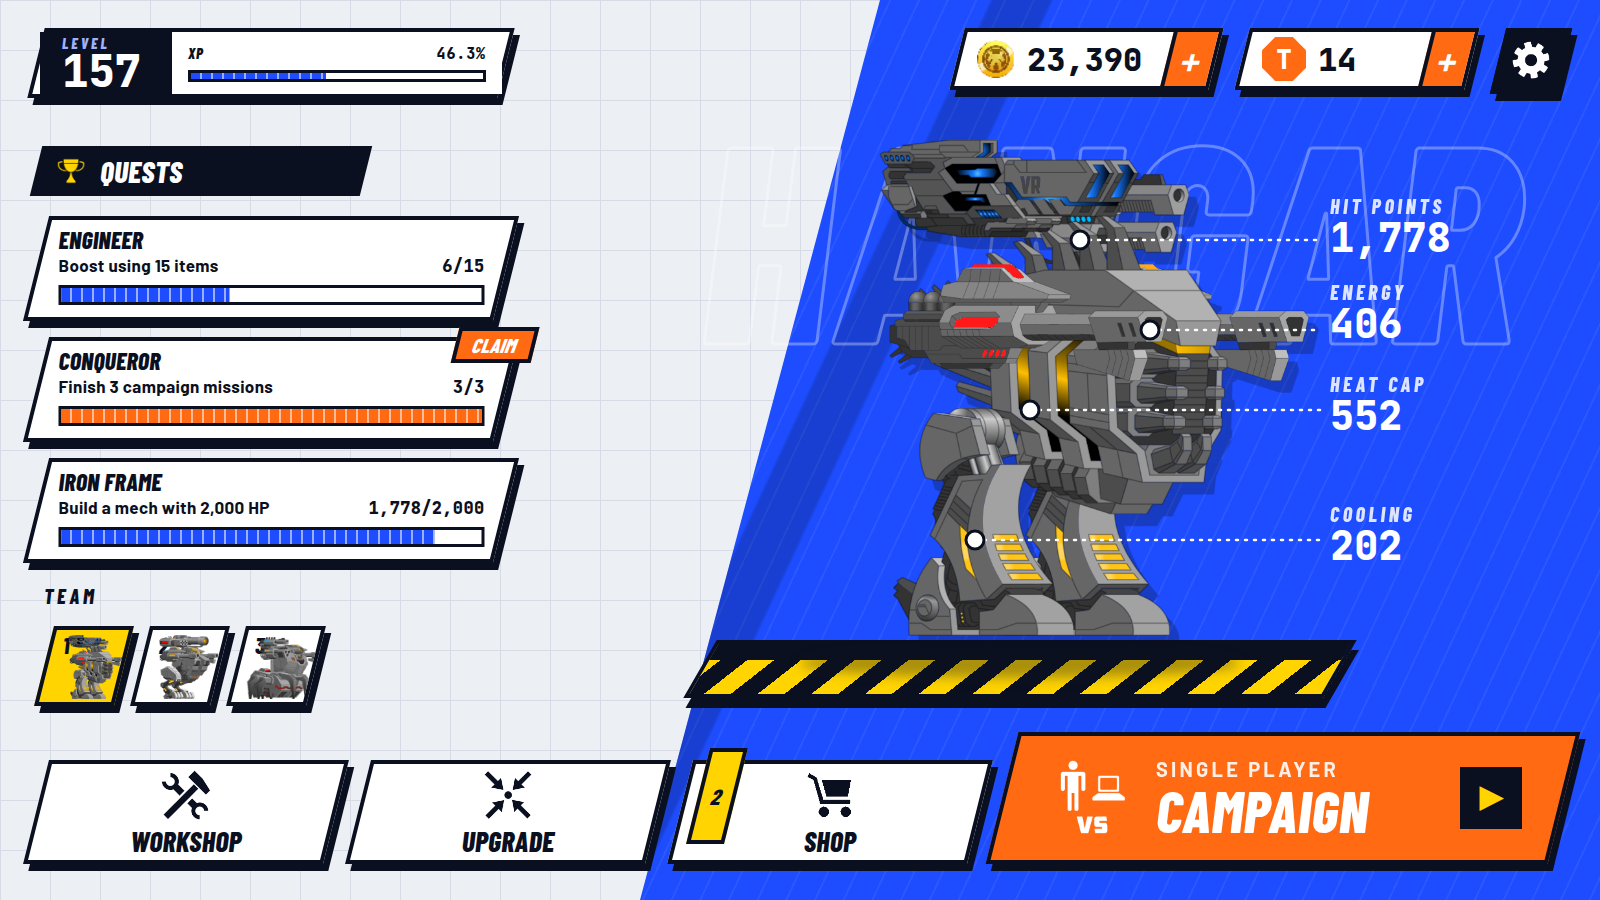
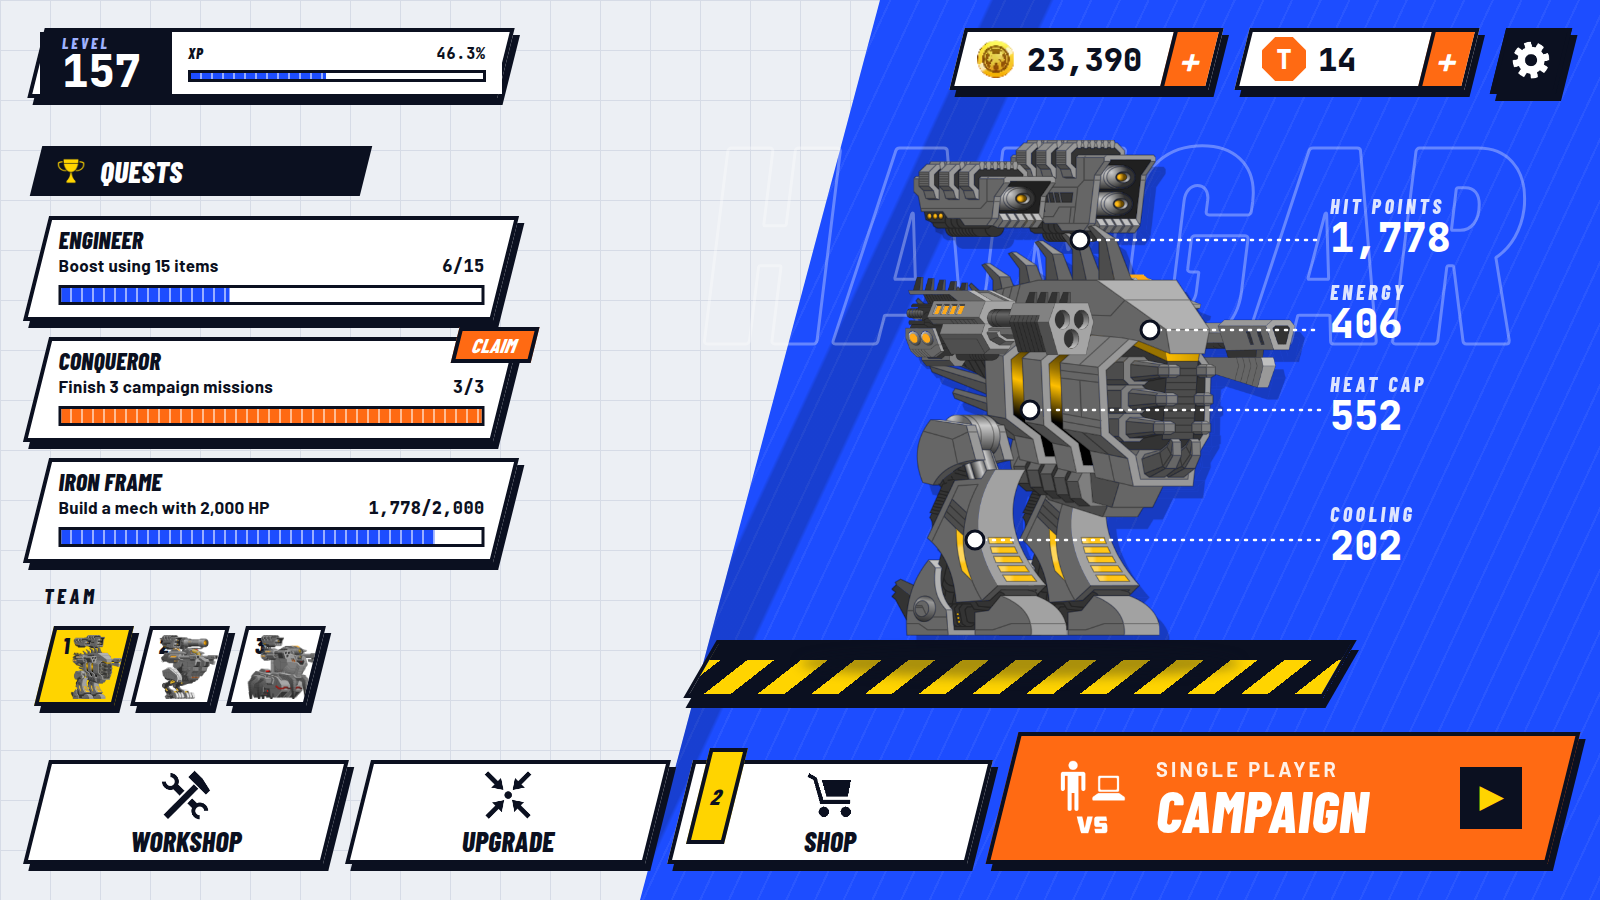
Fix mech assembly choice: use the leg73 legs and boxy top weapons
Overlaid the assembled torso and legs on the game's own workshop
screenshot: the anchor math matches (torso silhouette, hip height and leg
position line up). The earlier mismatch was the sprite choice (narrow
leg76 legs and long thin top guns), not the placement.

Claude-Session: https://claude.ai/code/session_016EMeU7WbdybdkHaQ4QiAx5

Changed region(s): [[0.5312, 0.1556, 0.8438, 0.7156], [0.0312, 0.6844, 0.1875, 0.7778]]

diff --git a/ui/mocks/assets/mech.js b/ui/mocks/assets/mech.js
@@ -1,5 +1,5 @@
 // Generated by ui/mocks/build_mechs.py from the game's own sprites and anchors.
-window.MECHS={"m1": {"w": 740, "h": 766, "parts": [{"src": "assets/mechs/sideRifle1E.png", "x": 310, "y": 192, "z": 1, "slot": "side2"}, {"src": "assets/mechs/cannon1A_elec.png", "x": 272, "y": 44, "z": 2, "slot": "top2"}, {"src": "assets/mechs/leg73D_phys.png", "x": 246, "y": 414, "z": 3, "slot": "leg2"}, {"src": "assets/mechs/torso52_phys.png", "x": 0, "y": 18, "z": 4, "slot": "torso"}, {"src": "assets/mechs/topBlaster3E.png", "x": 77, "y": 0, "z": 5, "slot": "top1"}, {"src": "assets/mechs/leg73D_phys.png", "x": 98, "y": 414, "z": 6, "slot": "leg1"}, {"src": "assets/mechs/sideRifle2E.png", "x": 92, "y": 192, "z": 7, "slot": "side1"}]}, "m2": {"w": 639, "h": 689, "parts": [{"src": "assets/mechs/sideRifle2E.png", "x": 209, "y": 127, "z": 1, "slot": "side2"}, {"src": "assets/mechs/topBeam2E_phys.png", "x": 148, "y": 2, "z": 2, "slot": "top2"}, {"src": "assets/mechs/leg67D_phys.png", "x": 133, "y": 337, "z": 3, "slot": "leg2"}, {"src": "assets/mechs/torso46_phys.png", "x": 12, "y": 0, "z": 4, "slot": "torso"}, {"src": "assets/mechs/topMachineGun1B_heat.png", "x": 0, "y": 13, "z": 5, "slot": "top1"}, {"src": "assets/mechs/leg67D_phys.png", "x": 13, "y": 337, "z": 6, "slot": "leg1"}, {"src": "assets/mechs/sideRifle1E.png", "x": 5, "y": 127, "z": 7, "slot": "side1"}]}, "m3": {"w": 735, "h": 617, "parts": [{"src": "assets/mechs/sideRifle1E.png", "x": 305, "y": 93, "z": 1, "slot": "side2"}, {"src": "assets/mechs/leg77D_heat.png", "x": 120, "y": 319, "z": 2, "slot": "leg2"}, {"src": "assets/mechs/torso47_phys.png", "x": 107, "y": 0, "z": 3, "slot": "torso"}, {"src": "assets/mechs/cannon1A_elec.png", "x": 122, "y": 21, "z": 4, "slot": "top1"}, {"src": "assets/mechs/leg77D_heat.png", "x": 0, "y": 319, "z": 5, "slot": "leg1"}, {"src": "assets/mechs/cannon3C.png", "x": 129, "y": 97, "z": 6, "slot": "side1"}]}};
+window.MECHS={"m1": {"w": 740, "h": 789, "parts": [{"src": "assets/mechs/sideRifle1E.png", "x": 310, "y": 214, "z": 1, "slot": "side2"}, {"src": "assets/mechs/topLaser2C_phys.png", "x": 264, "y": 0, "z": 2, "slot": "top2"}, {"src": "assets/mechs/leg73D_phys.png", "x": 246, "y": 437, "z": 3, "slot": "leg2"}, {"src": "assets/mechs/torso52_phys.png", "x": 0, "y": 40, "z": 4, "slot": "torso"}, {"src": "assets/mechs/topLaser2B_phys.png", "x": 133, "y": 34, "z": 5, "slot": "top1"}, {"src": "assets/mechs/leg73D_phys.png", "x": 98, "y": 437, "z": 6, "slot": "leg1"}, {"src": "assets/mechs/cannon3C.png", "x": 120, "y": 218, "z": 7, "slot": "side1"}]}, "m2": {"w": 652, "h": 713, "parts": [{"src": "assets/mechs/sideRifle2E.png", "x": 222, "y": 152, "z": 1, "slot": "side2"}, {"src": "assets/mechs/topBeam2E_phys.png", "x": 160, "y": 26, "z": 2, "slot": "top2"}, {"src": "assets/mechs/leg67D_phys.png", "x": 146, "y": 361, "z": 3, "slot": "leg2"}, {"src": "assets/mechs/torso46_phys.png", "x": 24, "y": 24, "z": 4, "slot": "torso"}, {"src": "assets/mechs/topLaser2C_phys.png", "x": 0, "y": 0, "z": 5, "slot": "top1"}, {"src": "assets/mechs/leg67D_phys.png", "x": 26, "y": 361, "z": 6, "slot": "leg1"}, {"src": "assets/mechs/sideRifle1E.png", "x": 18, "y": 152, "z": 7, "slot": "side1"}]}, "m3": {"w": 735, "h": 628, "parts": [{"src": "assets/mechs/sideRifle1E.png", "x": 305, "y": 105, "z": 1, "slot": "side2"}, {"src": "assets/mechs/leg77D_heat.png", "x": 120, "y": 330, "z": 2, "slot": "leg2"}, {"src": "assets/mechs/torso47_phys.png", "x": 107, "y": 12, "z": 3, "slot": "torso"}, {"src": "assets/mechs/topLaser2B_phys.png", "x": 132, "y": 0, "z": 4, "slot": "top1"}, {"src": "assets/mechs/leg77D_heat.png", "x": 0, "y": 330, "z": 5, "slot": "leg1"}, {"src": "assets/mechs/cannon3C.png", "x": 129, "y": 109, "z": 6, "slot": "side1"}]}};
 
 window.buildMech=function(el,key,heightPx){const m=window.MECHS[key];el.style.position='relative';el.style.width=m.w+'px';el.style.height=m.h+'px';
  for(const p of m.parts){const i=document.createElement('img');i.src=p.src;i.draggable=false;i.style.cssText='position:absolute;left:'+p.x+'px;top:'+p.y+'px;z-index:'+p.z+';max-width:none';el.appendChild(i);}

diff --git a/ui/mocks/build_mechs.py b/ui/mocks/build_mechs.py
@@ -88,15 +88,15 @@ def assemble(loadout):
 
 
 LOADOUTS = {
-    # Brutality torso, chunky legs, two rifles and two top guns
+    # Brutality torso (torso52) on leg73 legs, checked against the game's own workshop screenshot
     "m1": {"torso": "torso52_phys", "leg1": "leg73D_phys", "leg2": "leg73D_phys",
-           "top1": "topBlaster3E", "top2": "cannon1A_elec",
-           "side1": "sideRifle2E", "side2": "sideRifle1E"},
+           "top1": "topLaser2B_phys", "top2": "topLaser2C_phys",
+           "side1": "cannon3C", "side2": "sideRifle1E"},
     "m2": {"torso": "torso46_phys", "leg1": "leg67D_phys", "leg2": "leg67D_phys",
-           "top1": "topMachineGun1B_heat", "top2": "topBeam2E_phys",
+           "top1": "topLaser2C_phys", "top2": "topBeam2E_phys",
            "side1": "sideRifle1E", "side2": "sideRifle2E"},
     "m3": {"torso": "torso47_phys", "leg1": "leg77D_heat", "leg2": "leg77D_heat",
-           "top1": "cannon1A_elec", "side1": "cannon3C", "side2": "sideRifle1E"},
+           "top1": "topLaser2B_phys", "side1": "cannon3C", "side2": "sideRifle1E"},
 }
 
 JS_TAIL = """
